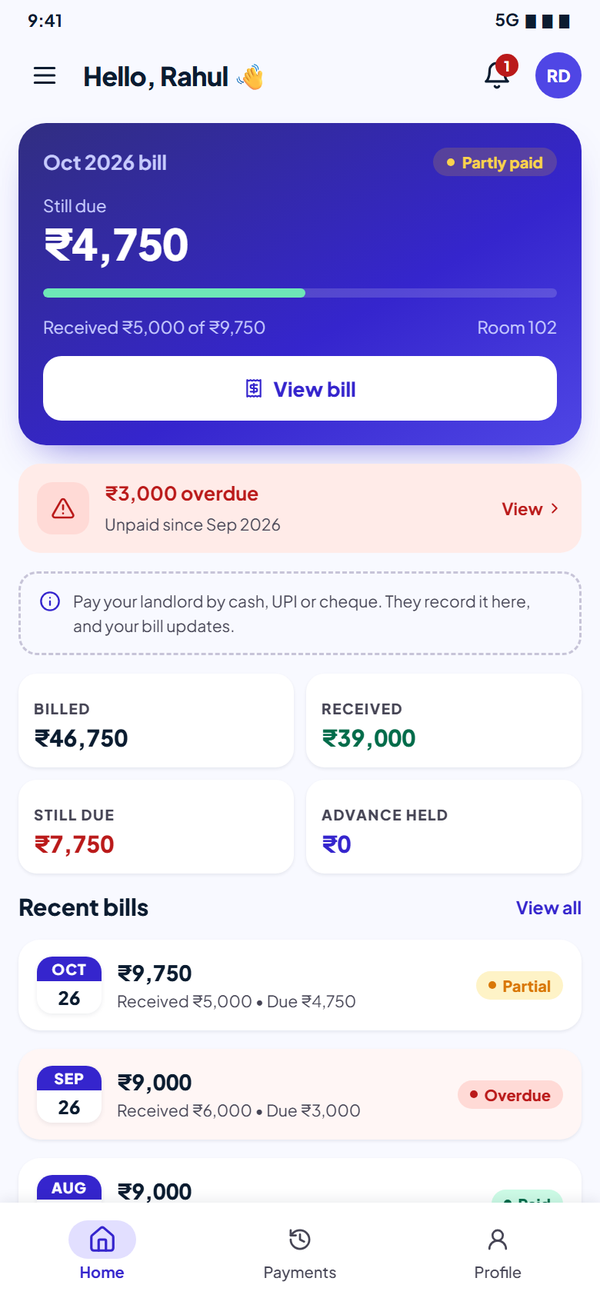
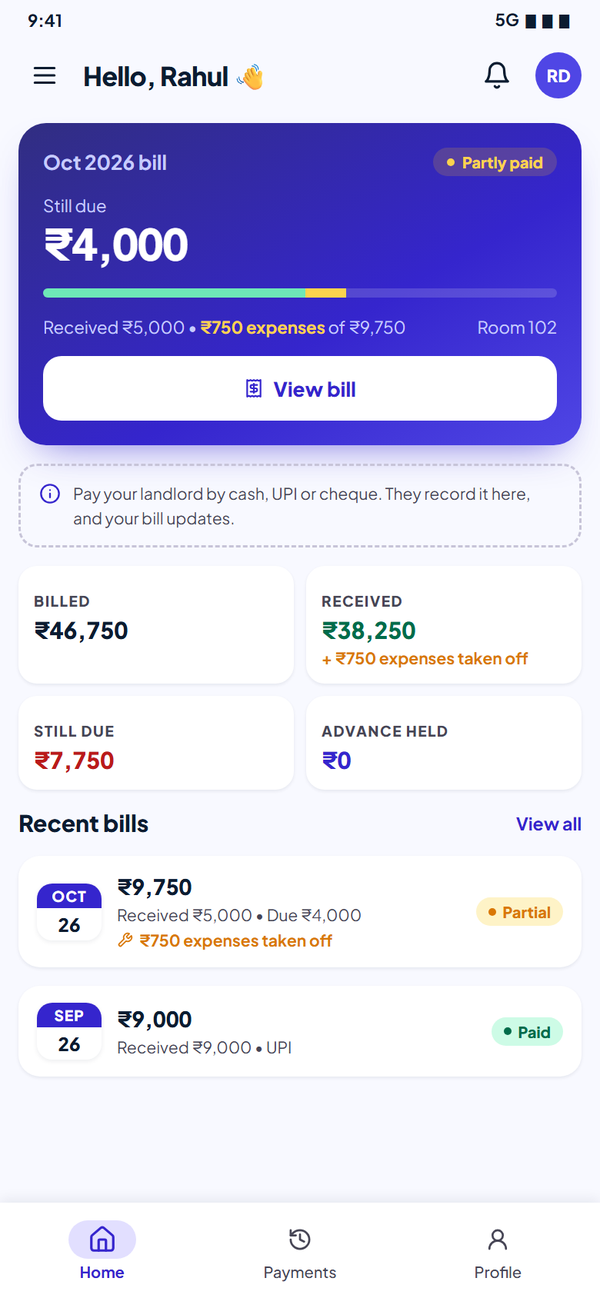
Show tenants each payment and the expenses taken off their bills
A tenant's bill lists its payments and expense deductions read-only, as the
web does (only their photos open), with Adjusted and "% settled"; Home and
Payments add "+ ₹… expenses taken off" under Received and an amber part to
this month's bar. The landlord's entries list and bill figures are shared.

diff --git a/app/src/main/kotlin/com/thebackendguy/rentflow/ui/screens/landlord/RentCollectionScreen.kt b/app/src/main/kotlin/com/thebackendguy/rentflow/ui/screens/landlord/RentCollectionScreen.kt
@@ -867,26 +867,7 @@ internal fun BillSheet(bill: BillDto, onDismiss: () -> Unit, onEntry: (String) -
                 }
 
                 Column {
-                    // Adjusted (expenses the tenant paid and took off) shows only when there are some
-                    val due = if (bill.pendingAmount > 0) Rf.Error else Rf.Secondary
-                    if (bill.adjustedAmount > 0) {
-                        Column(verticalArrangement = Arrangement.spacedBy(6.dp)) {
-                            Row(horizontalArrangement = Arrangement.spacedBy(6.dp)) {
-                                Figure("Total due", inr(bill.totalDue), Rf.OnSurface, Modifier.weight(1f))
-                                Figure("Received", inr(bill.paidAmount), Rf.Secondary, Modifier.weight(1f))
-                            }
-                            Row(horizontalArrangement = Arrangement.spacedBy(6.dp)) {
-                                Figure("Adjusted", inr(bill.adjustedAmount), Rf.Amber, Modifier.weight(1f))
-                                Figure("Still due", inr(bill.pendingAmount), due, Modifier.weight(1f))
-                            }
-                        }
-                    } else {
-                        Row(horizontalArrangement = Arrangement.spacedBy(6.dp)) {
-                            Figure("Total due", inr(bill.totalDue), Rf.OnSurface, Modifier.weight(1f))
-                            Figure("Received", inr(bill.paidAmount), Rf.Secondary, Modifier.weight(1f))
-                            Figure("Still due", inr(bill.pendingAmount), due, Modifier.weight(1f))
-                        }
-                    }
+                    BillFigures(bill)
                     CoverBar(bill, 6.dp, Modifier.padding(top = 10.dp))
                     Row(Modifier.padding(top = 6.dp)) {
                         Text(if (bill.adjustedAmount > 0) "$percent% settled" else "$percent% collected", style = RfType.LabelSm.copy(fontWeight = FontWeight.Medium), color = Rf.OnSurfaceVariant, modifier = Modifier.weight(1f))
@@ -1011,9 +992,11 @@ internal fun BillSheet(bill: BillDto, onDismiss: () -> Unit, onEntry: (String) -
  * Every payment and expense deduction of a bill, newest first, each with its amount,
  * method or category, number or name, date, note and photo, and what they add up to.
  * A row with an id opens it to change or remove; one saved before entries existed can't.
+ * Without [onOpen] (the tenant's side, as on the web) the list is read-only and only
+ * the photos open; [paidBy] says who paid an expense.
  */
 @Composable
-private fun BillEntries(bill: BillDto, onOpenProof: (String) -> Unit, onOpen: (ReceiptDto) -> Unit) {
+internal fun BillEntries(bill: BillDto, onOpenProof: (String) -> Unit, onOpen: ((ReceiptDto) -> Unit)?, paidBy: String = "tenant") {
     val receipts = bill.receipts
     Column(
         Modifier.fillMaxWidth().clip(RoundedCornerShape(14.dp)).border(1.dp, Rf.Low, RoundedCornerShape(14.dp)).padding(horizontal = 12.dp, vertical = 10.dp)
@@ -1037,7 +1020,7 @@ private fun BillEntries(bill: BillDto, onOpenProof: (String) -> Unit, onOpen: (R
         }
         receipts.forEachIndexed { index, receipt ->
             if (index > 0) HorizontalDivider(thickness = 1.dp, color = Rf.Low)
-            EntryRow(bill, receipt, onOpenProof, onOpen)
+            EntryRow(bill, receipt, onOpenProof, onOpen, paidBy)
         }
         HorizontalDivider(thickness = 1.dp, color = Rf.Low)
         Row(Modifier.padding(top = 9.dp), horizontalArrangement = Arrangement.spacedBy(8.dp)) {
@@ -1050,14 +1033,14 @@ private fun BillEntries(bill: BillDto, onOpenProof: (String) -> Unit, onOpen: (R
                 style = RfType.LabelSm.copy(fontWeight = FontWeight.Medium), color = Rf.OnSurfaceVariant
             )
         }
-        if (receipts.any { it.id != null }) {
+        if (onOpen != null && receipts.any { it.id != null }) {
             Text("Tap a row to change or remove it.", style = RfType.LabelSm.copy(fontWeight = FontWeight.Medium), color = Rf.OnSurfaceVariant, modifier = Modifier.padding(top = 6.dp))
         }
     }
 }
 
 @Composable
-private fun EntryRow(bill: BillDto, receipt: ReceiptDto, onOpenProof: (String) -> Unit, onOpen: (ReceiptDto) -> Unit) {
+private fun EntryRow(bill: BillDto, receipt: ReceiptDto, onOpenProof: (String) -> Unit, onOpen: ((ReceiptDto) -> Unit)?, paidBy: String) {
     val deduction = receipt.isDeduction
     val icon = when {
         deduction -> Lucide.Wrench
@@ -1067,7 +1050,7 @@ private fun EntryRow(bill: BillDto, receipt: ReceiptDto, onOpenProof: (String) -
     }
     val date = apiDate(receipt.date)?.shortLabel() ?: "—"
     Row(
-        Modifier.fillMaxWidth().pressable(if (receipt.id != null) ({ onOpen(receipt) }) else null, pressScale = 0.98f).padding(vertical = 10.dp),
+        Modifier.fillMaxWidth().pressable(if (receipt.id != null && onOpen != null) ({ onOpen(receipt) }) else null, pressScale = 0.98f).padding(vertical = 10.dp),
         verticalAlignment = Alignment.CenterVertically,
         horizontalArrangement = Arrangement.spacedBy(10.dp)
     ) {
@@ -1091,13 +1074,14 @@ private fun EntryRow(bill: BillDto, receipt: ReceiptDto, onOpenProof: (String) -
                 )
             }
             Text(
-                if (deduction) "${entryTitle(bill, receipt)} • paid by tenant • $date" else "Payment ${entryNumber(bill, receipt)} • $date",
+                if (deduction) "${entryTitle(bill, receipt)} • paid by $paidBy • $date" else "Payment ${entryNumber(bill, receipt)} • $date",
                 style = RfType.LabelSm.copy(fontWeight = FontWeight.Medium), color = Rf.OnSurfaceVariant, modifier = Modifier.padding(top = 2.dp)
             )
             receipt.notes?.takeIf(String::isNotBlank)?.let {
                 Text(it, style = RfType.LabelSm, color = Rf.OnSurface, modifier = Modifier.padding(top = 3.dp))
             }
-            if (receipt.id == null) {
+            // Only matters to whoever could change the other rows
+            if (receipt.id == null && onOpen != null) {
                 Text("Saved before entries", style = RfType.LabelSm.copy(fontSize = 10.sp), color = Rf.Outline, modifier = Modifier.padding(top = 2.dp))
             }
         }
@@ -1133,11 +1117,36 @@ private fun SheetButton(label: String, icon: LucideIcon, background: Color, cont
 internal fun plainNumber(value: Double): String =
     if (value % 1.0 == 0.0) "%,d".format(value.toLong()) else "%,.2f".format(value)
 
+/** Total due, Received and Still due; Adjusted (expenses the tenant paid and took off) only when there are some, two by two. */
 @Composable
-internal fun Figure(label: String, value: String, color: Color, modifier: Modifier) {
+internal fun BillFigures(bill: BillDto) {
+    val due = if (bill.pendingAmount > 0) Rf.Error else Rf.Secondary
+    if (bill.adjustedAmount > 0) {
+        Column(verticalArrangement = Arrangement.spacedBy(6.dp)) {
+            Row(horizontalArrangement = Arrangement.spacedBy(6.dp)) {
+                Figure("Total due", inr(bill.totalDue), Rf.OnSurface, Modifier.weight(1f))
+                Figure("Received", inr(bill.paidAmount), Rf.Secondary, Modifier.weight(1f))
+            }
+            Row(horizontalArrangement = Arrangement.spacedBy(6.dp)) {
+                Figure("Adjusted", inr(bill.adjustedAmount), Rf.Amber, Modifier.weight(1f))
+                Figure("Still due", inr(bill.pendingAmount), due, Modifier.weight(1f))
+            }
+        }
+    } else {
+        Row(horizontalArrangement = Arrangement.spacedBy(6.dp)) {
+            Figure("Total due", inr(bill.totalDue), Rf.OnSurface, Modifier.weight(1f))
+            Figure("Received", inr(bill.paidAmount), Rf.Secondary, Modifier.weight(1f))
+            Figure("Still due", inr(bill.pendingAmount), due, Modifier.weight(1f))
+        }
+    }
+}
+
+@Composable
+internal fun Figure(label: String, value: String, color: Color, modifier: Modifier, sub: String? = null, subColor: Color = Rf.OnSurfaceVariant) {
     Column(modifier.clip(RoundedCornerShape(12.dp)).background(Rf.Low).padding(10.dp)) {
         Caps(label)
         Text(value, style = RfType.BodyMd.copy(fontWeight = FontWeight.ExtraBold), color = color, maxLines = 1, modifier = Modifier.padding(top = 2.dp))
+        sub?.let { Text(it, style = RfType.LabelSm.copy(fontWeight = FontWeight.Bold), color = subColor, modifier = Modifier.padding(top = 2.dp)) }
     }
 }
 

diff --git a/app/src/main/kotlin/com/thebackendguy/rentflow/ui/screens/tenant/PaymentsScreens.kt b/app/src/main/kotlin/com/thebackendguy/rentflow/ui/screens/tenant/PaymentsScreens.kt
@@ -5,8 +5,10 @@ import androidx.compose.foundation.layout.Arrangement
 import androidx.compose.foundation.layout.Box
 import androidx.compose.foundation.layout.Column
 import androidx.compose.foundation.layout.ColumnScope
+import androidx.compose.foundation.layout.IntrinsicSize
 import androidx.compose.foundation.layout.PaddingValues
 import androidx.compose.foundation.layout.Row
+import androidx.compose.foundation.layout.fillMaxHeight
 import androidx.compose.foundation.layout.fillMaxSize
 import androidx.compose.foundation.layout.fillMaxWidth
 import androidx.compose.foundation.layout.height
@@ -36,7 +38,6 @@ import com.thebackendguy.rentflow.data.Loadable
 import com.thebackendguy.rentflow.data.Photo
 import com.thebackendguy.rentflow.data.TenantBills
 import com.thebackendguy.rentflow.data.TenantStore
-import com.thebackendguy.rentflow.data.apiDate
 import com.thebackendguy.rentflow.data.inr
 import com.thebackendguy.rentflow.data.isOverdue
 import com.thebackendguy.rentflow.data.isPdfLink
@@ -45,7 +46,6 @@ import com.thebackendguy.rentflow.data.monthLabel
 import com.thebackendguy.rentflow.data.parseApiMonth
 import com.thebackendguy.rentflow.data.remote.ApiResult
 import com.thebackendguy.rentflow.data.remote.BillDto
-import com.thebackendguy.rentflow.data.shortLabel
 import com.thebackendguy.rentflow.ui.components.AppPage
 import com.thebackendguy.rentflow.ui.components.EmptyState
 import com.thebackendguy.rentflow.ui.components.ErrorState
@@ -59,6 +59,8 @@ import com.thebackendguy.rentflow.ui.components.pressable
 import com.thebackendguy.rentflow.ui.icons.LIcon
 import com.thebackendguy.rentflow.ui.icons.Lucide
 import com.thebackendguy.rentflow.ui.screens.Shell
+import com.thebackendguy.rentflow.ui.screens.landlord.BillEntries
+import com.thebackendguy.rentflow.ui.screens.landlord.BillFigures
 import com.thebackendguy.rentflow.ui.screens.landlord.BillStatusPills
 import com.thebackendguy.rentflow.ui.screens.landlord.Caps
 import com.thebackendguy.rentflow.ui.screens.landlord.CoverBar
@@ -126,11 +128,14 @@ fun TenantBillsScreen(shell: Shell, onOpenBill: (String) -> Unit) {
             }
             val bills = data.bills
             val totals = data.totals
-            Row(horizontalArrangement = Arrangement.spacedBy(6.dp)) {
-                Figure("Billed", inr(totals?.totalDue ?: bills.sumOf { it.totalDue }), Rf.OnSurface, Modifier.weight(1f))
-                Figure("Received", inr(totals?.totalPaid ?: bills.sumOf { it.paidAmount }), Rf.Secondary, Modifier.weight(1f))
+            Row(Modifier.height(IntrinsicSize.Min), horizontalArrangement = Arrangement.spacedBy(6.dp)) {
+                Figure("Billed", inr(totals?.totalDue ?: bills.sumOf { it.totalDue }), Rf.OnSurface, Modifier.weight(1f).fillMaxHeight())
+                Figure(
+                    "Received", inr(totals?.totalPaid ?: bills.sumOf { it.paidAmount }), Rf.Secondary, Modifier.weight(1f).fillMaxHeight(),
+                    sub = data.adjusted.takeIf { it > 0 }?.let { "+ ${inr(it)} expenses" }, subColor = Rf.Amber
+                )
                 val due = totals?.totalPending ?: bills.sumOf { it.pendingAmount }
-                Figure("Still due", inr(due), if (due > 0) Rf.Error else Rf.OnSurface, Modifier.weight(1f))
+                Figure("Still due", inr(due), if (due > 0) Rf.Error else Rf.OnSurface, Modifier.weight(1f).fillMaxHeight())
             }
             val keys = listOf(null, "pending", "partial", "paid")
             val counts = keys.map { key -> bills.count { key == null || it.paymentStatus == key } }
@@ -215,7 +220,8 @@ internal fun Color.compositeOver(base: Color): Color = Color(
 
 /**
  * One bill in full, as the landlord's bill sheet shows it, without Collect, Edit or
- * Delete: totals, breakdown, payment, advance, meter photo and payment proof.
+ * Delete: totals, each payment and expense taken off, breakdown, note, advance and the
+ * meter photo.
  */
 @Composable
 fun TenantBillScreen(billId: String, shell: Shell, onBack: () -> Unit) {
@@ -261,15 +267,14 @@ private fun ColumnScope.BillDetails(bill: BillDto, allBills: List<BillDto>) {
                 BillStatusPills(bill)
             }
         }
-        Row(horizontalArrangement = Arrangement.spacedBy(6.dp)) {
-            Figure("Total due", inr(bill.totalDue), Rf.OnSurface, Modifier.weight(1f))
-            Figure("Received", inr(bill.paidAmount), Rf.Secondary, Modifier.weight(1f))
-            Figure("Still due", inr(bill.pendingAmount), if (bill.pendingAmount > 0) Rf.Error else Rf.Secondary, Modifier.weight(1f))
-        }
+        BillFigures(bill)
         Column {
             CoverBar(bill, 6.dp)
             Row(Modifier.padding(top = 6.dp)) {
-                Text("$percent% paid", style = RfType.LabelSm.copy(fontWeight = FontWeight.Medium), color = Rf.OnSurfaceVariant, modifier = Modifier.weight(1f))
+                Text(
+                    if (bill.adjustedAmount > 0) "$percent% settled" else "$percent% paid",
+                    style = RfType.LabelSm.copy(fontWeight = FontWeight.Medium), color = Rf.OnSurfaceVariant, modifier = Modifier.weight(1f)
+                )
                 when {
                     bill.advanceAmount > 0 -> Text("${inr(bill.advanceAmount)} extra kept as advance", style = RfType.LabelSm.copy(fontWeight = FontWeight.Bold), color = Rf.Primary)
                     bill.pendingAmount > 0 -> Text("${inr(bill.pendingAmount)} left to pay", style = RfType.LabelSm.copy(fontWeight = FontWeight.Bold), color = Rf.Error)
@@ -278,6 +283,9 @@ private fun ColumnScope.BillDetails(bill: BillDto, allBills: List<BillDto>) {
             }
         }
     }
+
+    // Each payment and expense, read-only as on the web; only their photos open
+    BillEntries(bill, onOpenProof = { url -> openAttachment(context, url) { viewing = it } }, onOpen = null, paidBy = "you")
 
     InfoBox("Breakdown") {
         InfoRow("Rent", inr(bill.rent), first = true)
@@ -296,14 +304,8 @@ private fun ColumnScope.BillDetails(bill: BillDto, allBills: List<BillDto>) {
         }
     }
 
-    InfoBox("Payment") {
-        InfoRow("Received", if (bill.paidAmount > 0) inr(bill.paidAmount) else "Nothing yet", first = true, valueColor = if (bill.paidAmount > 0) Rf.Secondary else null)
-        if (bill.adjustedAmount > 0) InfoRow("Expenses taken off", inr(bill.adjustedAmount), valueColor = Rf.Amber)
-        if (bill.paidAmount > 0) {
-            InfoRow("Last method", methodLabel(bill.paymentMethod))
-            InfoRow("Last payment", apiDate(bill.paymentDate)?.shortLabel() ?: "—")
-        }
-        bill.notes?.takeIf(String::isNotBlank)?.let { InfoRow("Notes", it) }
+    bill.notes?.takeIf(String::isNotBlank)?.let { note ->
+        InfoBox("Note") { InfoRow(note, "", first = true) }
     }
 
     // Money paid beyond this bill: which later bills used it, and what is still kept
@@ -332,16 +334,13 @@ private fun ColumnScope.BillDetails(bill: BillDto, allBills: List<BillDto>) {
         }
     }
 
-    // The meter photo and payment proof the landlord added
-    val meterPhoto = bill.electricity?.meterPhoto
-    val proof = bill.paymentProof
-    if (meterPhoto != null || proof != null) {
+    // The meter photo the landlord added; payment photos are on the entries above
+    bill.electricity?.meterPhoto?.let { meterPhoto ->
         Column(verticalArrangement = Arrangement.spacedBy(8.dp)) {
             Caps("Attachments")
             Row(horizontalArrangement = Arrangement.spacedBy(8.dp)) {
-                meterPhoto?.let { Attachment("Meter photo", it, Modifier.weight(1f)) { openAttachment(context, it) { url -> viewing = url } } }
-                proof?.let { Attachment("Payment proof", it, Modifier.weight(1f)) { openAttachment(context, it) { url -> viewing = url } } }
-                if (meterPhoto == null || proof == null) Box(Modifier.weight(1f))
+                Attachment("Meter photo", meterPhoto, Modifier.weight(1f)) { openAttachment(context, meterPhoto) { url -> viewing = url } }
+                Box(Modifier.weight(1f))
             }
         }
     }

diff --git a/app/src/main/kotlin/com/thebackendguy/rentflow/ui/screens/tenant/TenantHomeScreen.kt b/app/src/main/kotlin/com/thebackendguy/rentflow/ui/screens/tenant/TenantHomeScreen.kt
@@ -5,6 +5,7 @@ import androidx.compose.foundation.border
 import androidx.compose.foundation.layout.Arrangement
 import androidx.compose.foundation.layout.Box
 import androidx.compose.foundation.layout.Column
+import androidx.compose.foundation.layout.IntrinsicSize
 import androidx.compose.foundation.layout.Row
 import androidx.compose.foundation.layout.fillMaxHeight
 import androidx.compose.foundation.layout.fillMaxWidth
@@ -21,7 +22,10 @@ import androidx.compose.ui.Modifier
 import androidx.compose.ui.draw.clip
 import androidx.compose.ui.graphics.Brush
 import androidx.compose.ui.graphics.Color
+import androidx.compose.ui.text.SpanStyle
+import androidx.compose.ui.text.buildAnnotatedString
 import androidx.compose.ui.text.font.FontWeight
+import androidx.compose.ui.text.withStyle
 import androidx.compose.ui.unit.dp
 import androidx.compose.ui.unit.sp
 import com.thebackendguy.rentflow.data.TenantBills
@@ -93,9 +97,13 @@ fun TenantHomeScreen(firstName: String, shell: Shell, onOpenBill: (String) -> Un
             // All-time totals, from the API's summary when it sends one
             val totals = data.totals
             Column(verticalArrangement = Arrangement.spacedBy(8.dp)) {
-                Row(horizontalArrangement = Arrangement.spacedBy(8.dp)) {
-                    Figure("Billed", inr(totals?.totalDue ?: data.bills.sumOf { it.totalDue }), Rf.OnSurface, Modifier.weight(1f))
-                    Figure("Received", inr(totals?.totalPaid ?: data.bills.sumOf { it.paidAmount }), Rf.Secondary, Modifier.weight(1f))
+                Row(Modifier.height(IntrinsicSize.Min), horizontalArrangement = Arrangement.spacedBy(8.dp)) {
+                    Figure("Billed", inr(totals?.totalDue ?: data.bills.sumOf { it.totalDue }), Rf.OnSurface, Modifier.weight(1f).fillMaxHeight())
+                    // Expenses you paid and took off settle bills too, but aren't money received
+                    Figure(
+                        "Received", inr(totals?.totalPaid ?: data.bills.sumOf { it.paidAmount }), Rf.Secondary, Modifier.weight(1f).fillMaxHeight(),
+                        sub = data.adjusted.takeIf { it > 0 }?.let { "+ ${inr(it)} expenses taken off" }, subColor = Rf.Amber
+                    )
                 }
                 Row(horizontalArrangement = Arrangement.spacedBy(8.dp)) {
                     val due = totals?.totalPending ?: data.bills.sumOf { it.pendingAmount }
@@ -148,16 +156,27 @@ private fun ThisMonthCard(data: TenantBills, onOpenBill: (String) -> Unit, onOpe
                 style = RfType.HeadlineMd.copy(fontSize = 28.sp, fontWeight = FontWeight.ExtraBold), color = Color.White
             )
         }
-        // How much of the bill is covered, money and advance together
-        val covered = if (current.totalDue > 0) ((current.totalDue - current.pendingAmount) / current.totalDue).toFloat().coerceIn(0f, 1f) else 1f
+        // How much of the bill is covered: money and advance in green, then expenses taken off in amber
+        val total = current.totalDue
+        val covered = if (total > 0) ((total - current.pendingAmount) / total).toFloat().coerceIn(0f, 1f) else 1f
+        val expenses = if (total > 0) (current.adjustedAmount / total).toFloat().coerceIn(0f, covered) else 0f
+        val amber = Color(0xFFFCD34D)
         Row(Modifier.fillMaxWidth().height(6.dp).clip(CircleShape).background(Color.White.copy(alpha = 0.16f))) {
-            if (covered > 0f) Box(Modifier.weight(covered).fillMaxHeight().clip(CircleShape).background(Color(0xFF6EE7B7)))
+            if (covered - expenses > 0f) Box(Modifier.weight(covered - expenses).fillMaxHeight().background(Color(0xFF6EE7B7)))
+            if (expenses > 0f) Box(Modifier.weight(expenses).fillMaxHeight().background(amber))
             if (covered < 1f) Box(Modifier.weight(1f - covered))
         }
         Row {
             Text(
-                "Received ${inr(current.paidAmount)} of ${inr(current.totalDue)}" +
-                    if (current.creditApplied > 0) " • ${inr(current.creditApplied)} advance used" else "",
+                buildAnnotatedString {
+                    append("Received ${inr(current.paidAmount)}")
+                    if (current.adjustedAmount > 0) {
+                        append(" • ")
+                        withStyle(SpanStyle(color = amber, fontWeight = FontWeight.Bold)) { append("${inr(current.adjustedAmount)} expenses") }
+                    }
+                    append(" of ${inr(total)}")
+                    if (current.creditApplied > 0) append(" • ${inr(current.creditApplied)} advance used")
+                },
                 style = RfType.LabelSm, color = faint, modifier = Modifier.weight(1f)
             )
             current.room?.roomNumber?.let { Text("Room $it", style = RfType.LabelSm, color = faint) }

diff --git a/app/src/main/kotlin/com/thebackendguy/rentflow/data/TenantStore.kt b/app/src/main/kotlin/com/thebackendguy/rentflow/data/TenantStore.kt
@@ -27,6 +27,9 @@ data class TenantBills(val bills: List<BillDto>, val totals: BillTotalsDto?) {
     val overdue: List<BillDto> = bills.filter { it.isOverdue && it.pendingAmount > 0 }
     val advance: Double = round2(bills.sumOf { it.advanceLeft })
 
+    /** Expenses the tenant paid for the landlord, taken off their bills. */
+    val adjusted: Double = totals?.totalAdjusted ?: round2(bills.sumOf { it.adjustedAmount })
+
     /** The room and property of the newest bill: where the tenant lives as far as the bills say. */
     val latest: BillDto? = bills.firstOrNull()
 }

diff --git a/README.md b/README.md
@@ -138,14 +138,14 @@ After every save or delete, a short message such as “Property saved” floats 
 
 ### Tenant
 
-A tenant sees only their own bills (`/tenant/payment`), which their landlord records; the app takes no payments ([design mockup](https://claude.ai/artifact/3fTPD42D4YqiH8xnfyT8UK)).
+A tenant sees only their own bills (`/tenant/payment`), which their landlord records; the app takes no payments ([design mockup](https://claude.ai/artifact/3fTPD42D4YqiH8xnfyT8UK); each payment and the expenses taken off: [design mockup](https://claude.ai/artifact/NWQo76jTw2UyvtuxMXa2Pv)).
 
 | 03 Home | 06 Payments | 07 Bill details | 08 Profile |
 |:---:|:---:|:---:|:---:|
 | <img src="docs/screenshots/03-tenant-home.png" width="170" alt="Tenant home"> | <img src="docs/screenshots/06-tenant-payments.png" width="170" alt="Payments"> | <img src="docs/screenshots/07-tenant-bill.png" width="170" alt="Bill details"> | <img src="docs/screenshots/08-tenant-profile.png" width="170" alt="Tenant profile"> |
-| This month’s bill on an indigo card: still due (or paid), a bar of how much is covered, received of total, the room, and View bill. A red line for earlier months still unpaid, any advance held, a note on how to pay (cash, UPI or cheque to the landlord), all-time totals and the three latest bills. | Every bill, newest first, with Billed, Received and Still due, and All / Pending / Partial / Paid. Earlier months still unpaid say Overdue. | One bill as the landlord’s bill sheet shows it, without Collect, Edit or Delete. | Read-only, as on the web: photo, name, mobile, email, and the room and property from the newest bill. Change Password (the landlord’s screen and rules) and Log out. |
+| This month’s bill on an indigo card: still due (or paid), a bar of how much is covered (money in green, expenses taken off in amber), received and expenses of total, the room, and View bill. A red line for earlier months still unpaid, any advance held, a note on how to pay (cash, UPI or cheque to the landlord), all-time totals (“+ ₹… expenses taken off” in amber under Received) and the three latest bills. | Every bill, newest first, with Billed, Received (and any expenses taken off) and Still due, and All / Pending / Partial / Paid. Earlier months still unpaid say Overdue; a bill with an expense says so in amber. | One bill as the landlord’s bill sheet shows it, with each payment and expense, read-only. | Read-only, as on the web: photo, name, mobile, email, and the room and property from the newest bill. Change Password (the landlord’s screen and rules) and Log out. |
 
-**Bill details** (replaces the Receipt) shows one bill as the landlord’s bill sheet does, without Collect, Edit or Delete: totals and how much is paid, rent, electricity with the readings, other charges, advance used, the payment’s method and date, any advance kept for later bills, and the meter photo and payment proof (a PDF opens in the phone’s viewer).
+**Bill details** (replaces the Receipt) shows one bill as the landlord’s bill sheet does, without Collect, Edit or Delete: Total due, Received, Adjusted (when there are expenses) and Still due, and how much is paid or settled; then **Payments & deductions**, as on the web read-only: each payment with its method, number, date and note, and each expense in amber with its category and “paid by you”. Only their photos open (a PDF opens in the phone’s viewer). Then rent, electricity with the readings, other charges, advance used, the bill’s note, any advance kept for later bills, and the meter photo.
 
 Tenants sign in with their email or their mobile number and password; “Login with OTP” uses the email.
 
